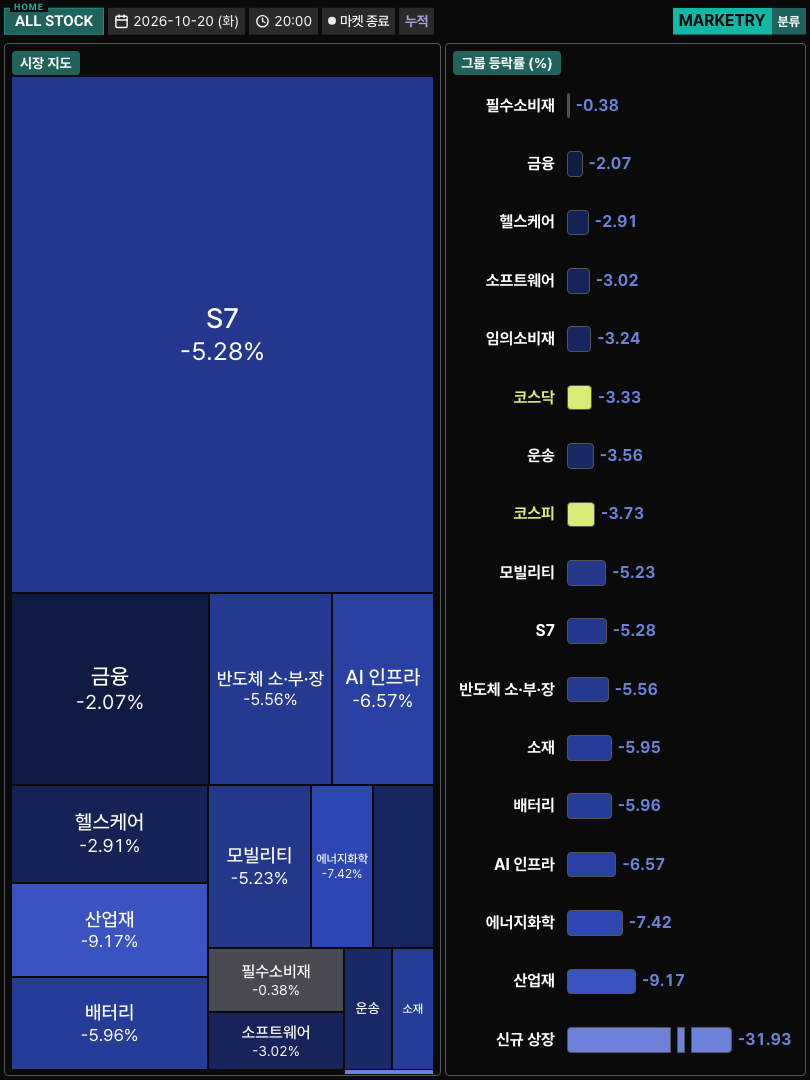
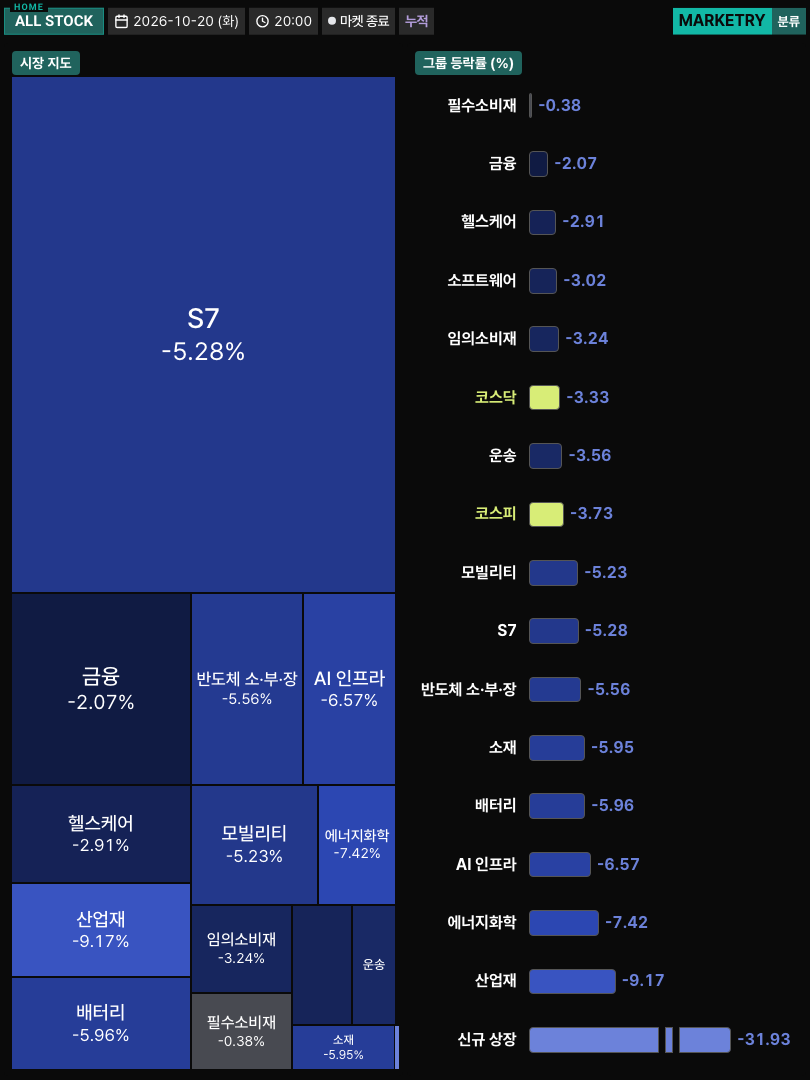
fix: 메시지 페이지 샘플 외곽선과 지도 이미지 누적 칩 모양을 고친다

diff --git a/src/pages/MapPage.tsx b/src/pages/MapPage.tsx
@@ -176,26 +176,11 @@ function revealMobileCapture(cloned: Node, keepPageLabel = false) {
     const changeRateButton = changeRateSelector?.querySelector<HTMLButtonElement>('[data-change-rate-mode]')
     if (changeRateButton && changeRateSelector) {
       leftContent.querySelector('[aria-label="등락률 기준 선택"]')?.remove()
-      const selectedButton = changeRateButton.cloneNode(true) as HTMLButtonElement
-      // 모바일 캡처에는 현재 기준만 정적 칩으로 남기고 메뉴 동작은 제거한다.
-      selectedButton.classList.add('toolbar-badge')
-      selectedButton.removeAttribute('aria-expanded')
-      selectedButton.removeAttribute('aria-haspopup')
-      selectedButton.style.width = '38px'
-      selectedButton.style.minWidth = '38px'
-      selectedButton.style.height = '26.25px'
-      selectedButton.style.minHeight = '26.25px'
-      selectedButton.style.boxSizing = 'border-box'
-      selectedButton.style.display = 'flex'
-      selectedButton.style.alignItems = 'center'
-      selectedButton.style.justifyContent = 'center'
-      selectedButton.style.backgroundColor = 'var(--sub-purple)'
-      selectedButton.style.color = 'var(--ui-background)'
-      // 캡처 복제본에는 원본의 계산된 text-fill-color도 남아 있으므로 함께 바꾼다.
-      selectedButton.style.webkitTextFillColor = 'var(--ui-background)'
-      selectedButton.style.pointerEvents = 'none'
-      selectedButton.style.transition = 'none'
-      changeRateSelector.replaceWith(selectedButton)
+      // 지금 툴바의 칩 모양 그대로 두고 메뉴 동작만 뺀다. 보라색 바탕 칩은 예전 모양이라 쓰지 않는다.
+      changeRateButton.removeAttribute('aria-expanded')
+      changeRateButton.removeAttribute('aria-haspopup')
+      changeRateButton.style.pointerEvents = 'none'
+      changeRateButton.style.transition = 'none'
     }
     // 모바일 캡처에서는 ALL STOCK과 겹치지 않도록 MAP 페이지 라벨을 숨긴다.
     if (keepPageLabel) {

diff --git a/src/pages/AdminMessagePage.tsx b/src/pages/AdminMessagePage.tsx
@@ -186,11 +186,11 @@ export default function AdminMessagePage() {
                           {/* 한 메시지에 두 장이 앨범으로 나간다 — 왼쪽이 시장 요약(홈 화면), 오른쪽이 시장 지도(지도 페이지 모바일 캡처). */}
                           <div className="mt-2 flex items-start gap-2">
                             <figure className="m-0">
-                              <img src={sampleImage} alt="텔레그램으로 나가는 이미지 예시 — 시장 요약(시장 지도와 그룹 등락률)" className="block h-[420px] w-auto rounded-sm border border-ui-border" draggable={false} />
+                              <img src={sampleImage} alt="텔레그램으로 나가는 이미지 예시 — 시장 요약(시장 지도와 그룹 등락률)" className="block h-[420px] w-auto rounded-sm" draggable={false} />
                               <figcaption className="mt-1 text-center text-xs text-ui-muted">시장 요약</figcaption>
                             </figure>
                             <figure className="m-0">
-                              <img src={sampleMapImage} alt="텔레그램으로 나가는 이미지 예시 — 시장 지도" className="block h-[420px] w-auto rounded-sm border border-ui-border" draggable={false} />
+                              <img src={sampleMapImage} alt="텔레그램으로 나가는 이미지 예시 — 시장 지도" className="block h-[420px] w-auto rounded-sm" draggable={false} />
                               <figcaption className="mt-1 text-center text-xs text-ui-muted">시장 지도</figcaption>
                             </figure>
                           </div>

diff --git a/docs/history.md b/docs/history.md
@@ -843,6 +843,8 @@ Custom의 본문 로딩·오류 원 여백은 지도·그룹 페이지와 같은
 
 텔레그램 이미지 모양을 다듬었다(2026-10-23, 사용자 요청): 시장 요약(홈 3:4 판)의 두 영역(시장 지도·그룹 등락률) 너비를 같게 했다(399px씩, 이전에는 11:9라 437/361px). 두 영역의 외곽선은 뺐다(선 색만 투명으로 두어 안쪽 글자·막대 위치는 그대로다). 시장 지도 이미지(지도 모바일 판)에는 ALL STOCK 배지 위의 페이지 라벨 `MAP`을 남긴다(홈 판의 `HOME`과 같은 모양). 스크린샷 창의 모바일 캡처는 예전처럼 라벨을 숨긴다(`revealMobileCapture`의 `keepPageLabel`).
 
+메시지 페이지(`/admin/message`) 샘플 사진의 외곽선을 없앴다(2026-10-23, 사용자 요청): 사진에 씌우던 테두리를 빼고, 샘플 파일도 지금 텔레그램 이미지(홈 판 외곽선 없음·두 영역 너비 같음, 지도 판 `MAP` 라벨)로 다시 만들었다. 지도 모바일 캡처 복제본의 등락률 기준 칩(`누적`)은 보라색 바탕이 칠해지던 예전 모양을 그대로 쓰고 있어서, 지금 툴바 칩 모양(어두운 바탕에 보라 글자)과 같게 고쳤다. 스크린샷 창의 모바일 캡처도 같은 복제 코드를 쓰므로 같이 바뀐다.
+
 ## 확인창·알림창 뒤의 막힌 곳을 누르면 소리와 흔들기 (2026-10-15)
 
 확인창·알림창(`AppDialogHost`)은 화면을 어둡게 덮고 뒤 화면 클릭을 막지만, 막힌 곳을 눌러도 아무 반응이 없어 "왜 안 눌리지" 싶을 수 있다. 윈도우 네이티브 대화창처럼 **창 바깥을 누르면 짧은 "딩" 소리를 내고 창을 0.32초 동안 좌우로 살짝(약 7px) 흔든다**. 창 안쪽(버튼·글자)을 누르면 반응하지 않는다. 소리는 음원 파일 없이 Web Audio로 만든 종소리 모양(1175Hz + 배음 2350Hz, 0.25초에 걸쳐 사라짐)이고(`utils/dialogSound.ts`), 연타해도 0.3초에 한 번만 난다. 윈도우의 진짜 시스템 소리는 웹에서 낼 수 없어 비슷한 톤이다. 운영체제에서 "움직임 줄이기"를 켜 두면 흔들지 않고 소리만 낸다. 배경을 눌러도 창이 닫히지는 않는 기존 동작은 그대로다(버튼이나 Esc로만 닫힌다). 소리를 끄는 설정은 아직 없다.
